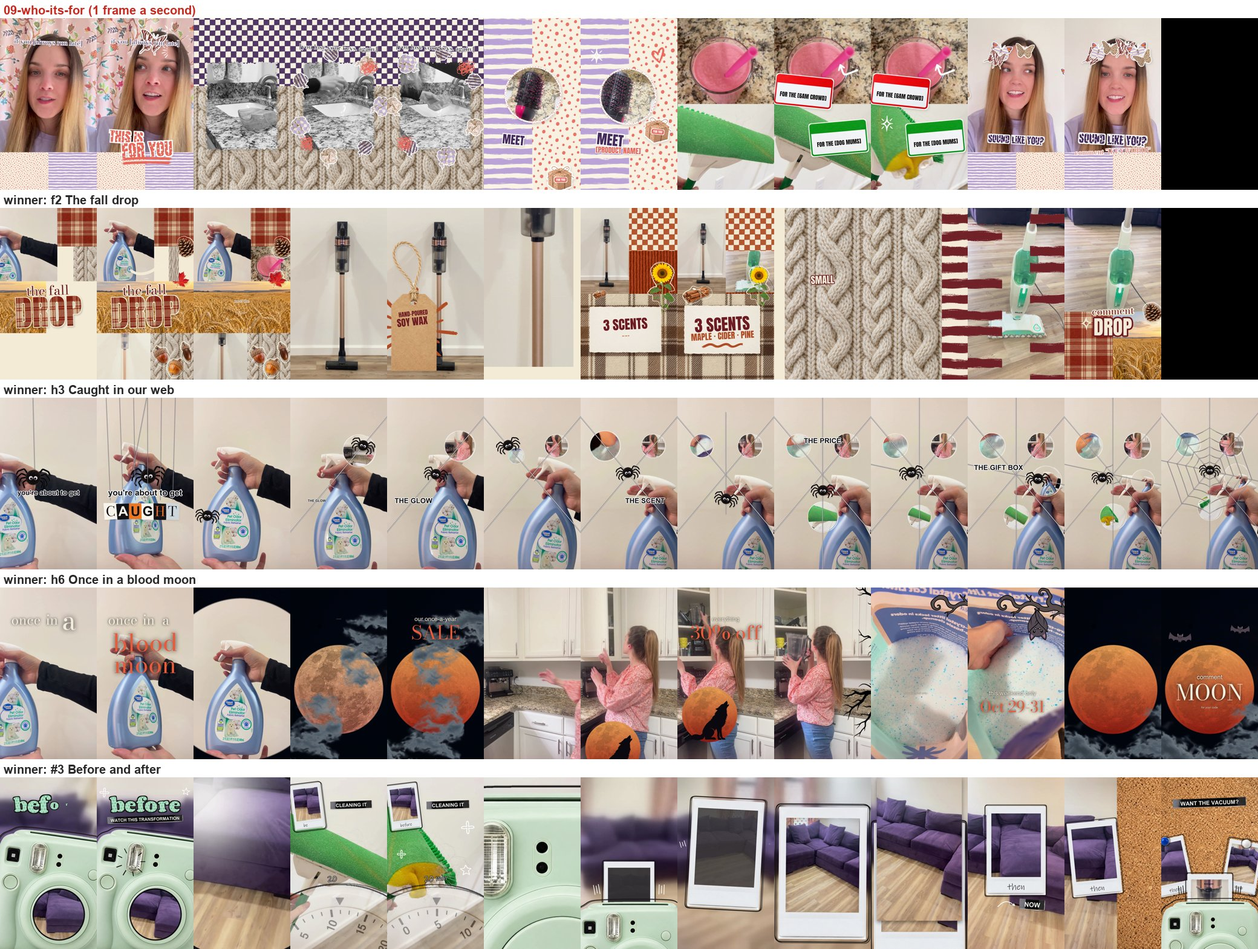
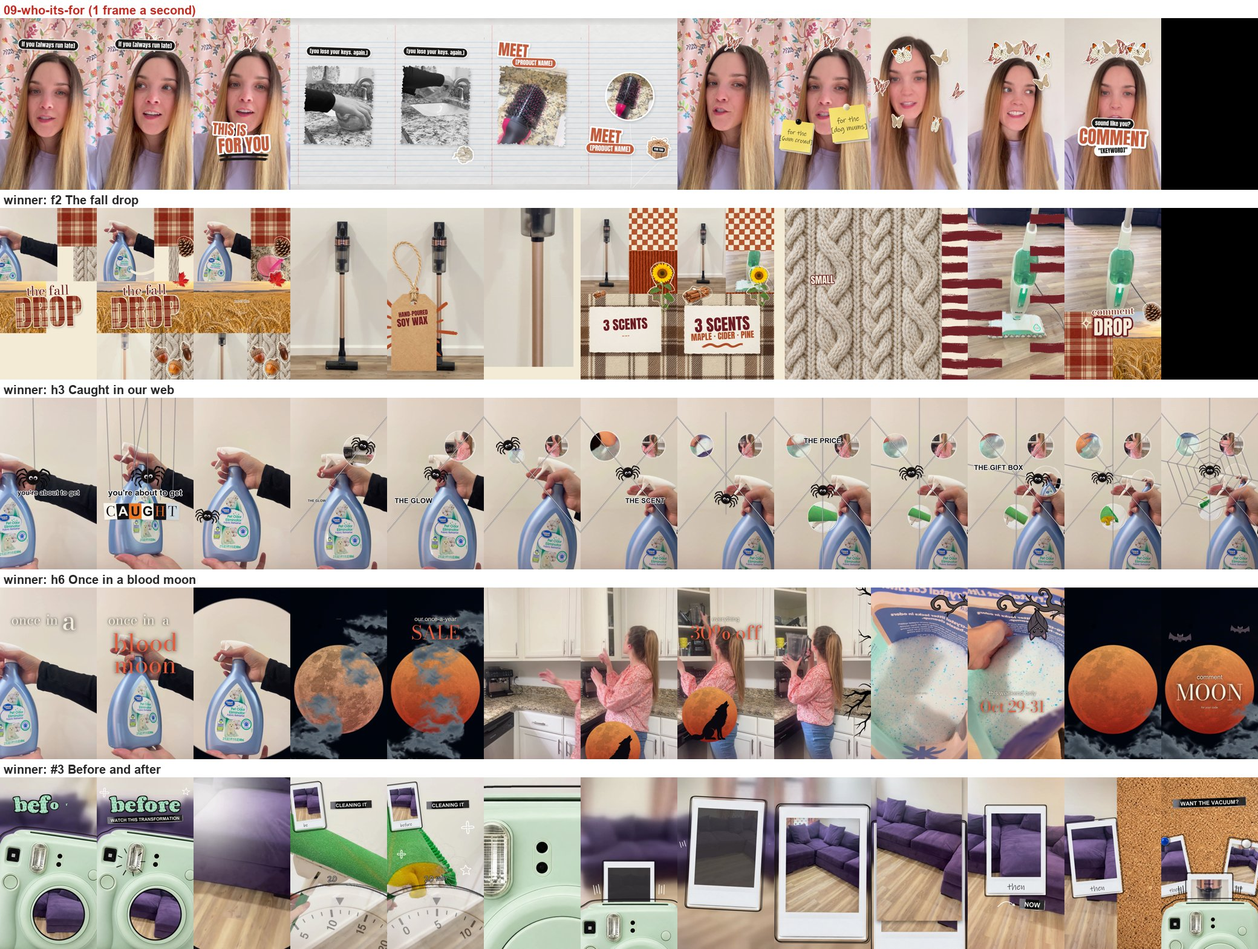
Reel Template Packs #09/#10/#12 round 2: her 17 notes + scene structure
Readable words (solid pills / thick-edged lettering, no pattern fills), a neutral colour
story with one buyer-changeable accent per template, no pattern repeated behind its
object, plain round-window rims, thicker balloon strings, three different openings,
doodles only with a job, sticky notes instead of name tags, the clip fitted into the
TV screen, doorbell button showing with the burst coming from it, THE / WAIT / IS OVER
one word per tissue sheet, 7-8 scenes each with a returning stage. play.py: pill,
big_text, sticky, tv_with, NEUTRAL palette.

Changed region(s): [[0.0, 0.0, 0.9375, 0.2185]]

diff --git a/automation/reel-template-pack/build/story4.py b/automation/reel-template-pack/build/story4.py
@@ -1,0 +1,292 @@
+"""#09, #10 and #12, round 2 after her 17 notes (2026-10-18) and the "Scene structure" rules (FRAMEWORK.md):
+- readable words: solid colour on a solid pill or with a thick white edge (play.pill / play.big_text); no
+  pattern-filled lettering, no thin serif over busy footage
+- a neutral colour story (cream, stone, ink, kraft) plus ONE accent per template that buyers change to their brand;
+  never the same pattern on an object and right behind it; plain white rims on the round clip windows
+- three different openings (talking head / a kraft stage / a diagonal split), not the fall layout
+- 7 to 8 scenes each (a new one every 1.5 to 2 s), two home bases (the buyer's video and one graphic stage that comes
+  back with a new setup), a designed change every time, one element carried across, interplay with the person
+- doodles only with a job (an arrow AT something, an underline under the key word, a burst FROM the bell)
+Stand-in footage (her July clips; #09's talking head is Mercedes).
+Usage: python build/story4.py 09 [seconds ...]  ->  NN-.../preview/motion-test.mp4  (or a test sheet)
+"""
+import math, sys
+from pathlib import Path
+from PIL import Image, ImageChops, ImageDraw, ImageFilter, ImageOps
+sys.path.insert(0, str(Path(__file__).resolve().parent))
+import collage as C
+import storyboard_b2 as S
+import play as P
+from collage_kit import doodle, doodle_on, raw
+from collage_motion import still, video, tiles
+from motion_b2 import Clip, put, pop, camera, render, circle_mask, ease, back_out, seg, lerp, lerp2, clamp, W, H, INK, WHITE, CREAM
+
+N = P.NEUTRAL; INKC, STONE, CRM, PAPER = N['ink'], N['stone'], N['cream'], N['paper']
+DIRS = {'09': '09-who-its-for', '10': '10-three-people-to-gift-it-to', '12': '12-your-order-just-arrived'}
+
+def bg(name, folder='images', crop=None):
+    im = raw(folder, name, crop) if crop else S.raw(folder, name); return ImageOps.fit(im, (W, H), Image.LANCZOS).convert('RGBA')
+
+def pattern_bg(kind, dark, light, scale=0.6):
+    m = P._pattern_mask(kind, (W, H), scale); im = Image.new('RGBA', (W, H), light + (255,)); lay = Image.new('RGBA', (W, H), dark + (0,)); lay.putalpha(m); im.alpha_composite(lay); return im
+
+def roundwin(clip_im, d, rim=WHITE):
+    """A clip in a round window with a plain rim (no repeated pattern on the rims: her note)."""
+    out = Image.new('RGBA', (d + 36, d + 36), (0, 0, 0, 0)); ring = Image.new('RGBA', out.size, rim + (255,))
+    ring.putalpha(circle_mask(out.size, (out.width / 2, out.height / 2), d / 2 + 16, 1)); out.alpha_composite(ring)
+    v = ImageOps.fit(clip_im, (d, d)); v.putalpha(circle_mask((d, d), (d / 2, d / 2), d / 2, 1)); out.alpha_composite(v, (18, 18))
+    return C.shadow(out, (8, 14), 14, 100)
+
+def card(clip_im, w, h, border=16, rot=0):
+    c = Image.new('RGBA', (w + 2 * border, h + 2 * border), WHITE + (255,)); c.alpha_composite(ImageOps.fit(clip_im, (w, h)), (border, border))
+    return C.shadow(c, (8, 14), 14, 110)
+
+def swipe(old, new, u, direction=1):
+    """Motion-blur swipe: the old scene slides out and the new one in, smeared sideways mid-move."""
+    if u <= 0: return old
+    if u >= 1: return new
+    dx = int(direction * ease(u) * W); out = Image.new('RGBA', (W, H))
+    out.alpha_composite(old, (-dx, 0)); out.alpha_composite(new, (direction * W - dx, 0))
+    k = int(1 + 24 * math.sin(math.pi * u))                       # horizontal smear, strongest mid-swipe
+    return out.resize((max(1, W // k), H), Image.BILINEAR).resize((W, H), Image.BILINEAR) if k > 2 else out
+
+def diagonal(old, new, u):
+    """Diagonal wipe from the right (Lisa's scene 1)."""
+    if u <= 0: return old
+    if u >= 1: return new
+    x = lerp(W + H * 0.4, -H * 0.4, ease(u)); m = Image.new('L', (W, H), 0); ImageDraw.Draw(m).polygon([(x, 0), (W + 2000, 0), (W + 2000, H), (x + H * 0.4, H)], fill=255)
+    out = old.copy(); out.paste(new, (0, 0), m); return out
+
+def pan(scene_tall, t, t0, t1, y0, y1):
+    """Prezi pan down a tall graphic stage."""
+    y = lerp(y0, y1, ease(seg(t, t0, t1))); return scene_tall.crop((0, int(y), W, int(y) + H))
+
+# ======================================================================================================================
+# 09 Who it's for. Accent: terracotta (buyers change it). Home bases: her talking head + a notebook-paper stage.
+#  1 0.0  her, a butterfly flutters in and lands on her head; "if you [always run late]" on a black pill
+#  2 1.6  "THIS IS FOR YOU" big over her (accent, white edge); swipe to the stage
+#  3 3.0  stage: the problem in B&W inside a torn window; "[you lose your keys. again.]" pill; one crumpled paper rolls in
+#  4 4.5  swap in place: the torn window becomes the product clip in colour; MEET [PRODUCT NAME]; burst on the swap
+#  5 5.9  pan down the paper: the product floats up on a string; arrow from MEET to it
+#  6 7.4  back to her: sticky notes pinned one at a time: for the [6am crowd] / for the [dog mums]
+#  7 9.4  the butterflies gather in a circle round her head (the first one is carried in from scene 1) into a crown
+#  8 10.5 CTA word sandwich: "sound like you?" / COMMENT / "[KEYWORD]"; underline under COMMENT
+# ======================================================================================================================
+TERRA = (196, 92, 62)
+
+def setup_09():
+    g = {'c': {'me': Clip('IMG_1469', 1.0, 6.0), 'me2': Clip('IMG_1470', 1.0, 6.0), 'problem': Clip('IMG_1430', 1.0), 'product': Clip('IMG_1381', 1.0)}}
+    g['paper'] = bg('Blank Ruled Notebook Paper.png', 'physical')
+    tall = Image.new('RGBA', (W, 2 * H)); tall.alpha_composite(g['paper'], (0, 0)); tall.alpha_composite(g['paper'], (0, H)); g['tall'] = tall
+    g['bf'] = [P.thing(P.BUTTERFLIES[i % 3], 220, ('stripes', 'dots', 'smalldots')[i % 3], (TERRA, INKC, STONE)[i % 3], scale=0.3, strength=0.75, seed=i, edge=6) for i in range(6)]
+    g['ball'] = P.thing('Crumpled cream paper ball-58.png', 220, 'stripes', STONE, scale=0.3, strength=0.7)
+    g['gift'] = P.thing('Kraft paper cube gift with twine-38.png', 260, 'dots', TERRA, scale=0.4, label=P.sticker('FOR YOU', 34, INKC))
+    g['habit'] = P.pill('if you [always run late]', 64, INKC, WHITE); g['this'] = P.big_text('THIS IS', 150, TERRA); g['foryou'] = P.big_text('FOR YOU', 190, TERRA)
+    g['problem'] = P.pill('[you lose your keys. again.]', 58, INKC, WHITE); g['meet'] = P.big_text('MEET', 170, TERRA); g['prod'] = P.pill('[PRODUCT NAME]', 66, TERRA, WHITE)
+    g['notes'] = [P.sticky('for the\n[6am crowd]', 420, seed=1, pin='pin-head-black'), P.sticky('for the\n[dog mums]', 420, seed=2, pin='pin-head-cream')]
+    g['sound'] = P.pill('sound like you?', 62, INKC, WHITE); g['comment'] = P.big_text('COMMENT', 200, TERRA); g['kw'] = P.pill('"[KEYWORD]"', 66, WHITE, INKC)
+    g['d_burst'] = doodle('burst', 1, 300, TERRA); g['d_arrow'] = doodle('arrow', 9, 230, INKC); g['d_under'] = doodle('under', 4, 560, INKC)
+    return g
+
+def frame_09(g, t):
+    c = g['c']; cx, cy, rx, ry = P.HEAD; top = (cx, cy - ry - 90)
+    if t < 3.0:                                                   # 1-2: her; the butterfly lands; THIS IS FOR YOU; swipe out
+        im = c['me'].at(t)
+        u = ease(seg(t, 0.2, 1.3)); path = (lerp(-150, top[0] + 30, u), lerp(1100, top[1] - 40, u) - 260 * math.sin(math.pi * u))
+        P.butterfly(im, g['bf'][0], t, path, -20 + 20 * u, flap=1 - 0.7 * seg(t, 1.3, 1.6))
+        pop(im, g['habit'], t, 0.1, (540, 300), -2, out=1.5)
+        pop(im, g['this'], t, 1.6, (400, 1250), -4); pop(im, g['foryou'], t, 1.75, (560, 1420), 3); doodle_on(im, t, 2.0, g['d_under'], (560, 1560), -2)
+        if t > 2.7: im = swipe(im, stage_09(g, t, 0), seg(t, 2.7, 3.0))
+        return im
+    if t < 5.9: return stage_09(g, t, 0)
+    if t < 7.4:                                                   # 5: pan down the paper; the product floats up on a string
+        im = g['paper'].copy()                                      # the balloon rises as the stage changes (no empty frame)
+        P.balloon(im, roundwin(c['product'].at(t - 5.9, (520, 520)), 520), t, (560, 860), (560, 1900), 0, rise=(5.9, 6.4, 2400))
+        P.balloon(im, g['gift'], t, (880, 1250), (580, 1900), 1.7, rise=(6.1, 6.6, 2400))
+        pop(im, g['meet'], t, 6.2, (280, 1320), -6); pop(im, g['prod'], t, 6.35, (330, 1460), -2)
+        doodle_on(im, t, 6.6, g['d_arrow'], (320, 1080), -60)
+        if t > 7.1: im = swipe(im, c['me'].at(t - 7.4 + 3.0), seg(t, 7.1, 7.4), -1)
+        return im
+    if t < 9.4:                                                   # 6: back to her; sticky notes pinned one at a time
+        im = c['me'].at(t - 7.4 + 3.0); P.butterfly(im, g['bf'][0], t, (top[0] + 30, top[1] - 40), 0, flap=0.3)   # carried on her head
+        pop(im, g['notes'][0], t, 7.6, (250, 1320), -8); pop(im, g['notes'][1], t, 8.3, (830, 1180), 7)
+        return im
+    im = c['me2'].at(t - 9.4)                                     # 7-8: butterflies gather in a circle into a crown; CTA
+    for i, (pt, bf) in enumerate(zip(P.crown_points(6, 170), g['bf'])):
+        a0 = i * math.pi / 3 + t * 2; orbit = (540 + 430 * math.cos(a0), 800 + 430 * math.sin(a0))
+        u = ease(seg(t, 9.6 + i * 0.08, 10.4 + i * 0.08)); P.butterfly(im, bf, t, lerp2(orbit, pt, u), (i - 2.5) * 10, flap=1 - 0.6 * u, phase=i)
+    pop(im, g['sound'], t, 10.5, (540, 1180), -2); pop(im, g['comment'], t, 10.65, (540, 1340), -3); pop(im, g['kw'], t, 10.9, (540, 1480), 2)
+    return im
+
+def stage_09(g, t, _):
+    """3-4: the notebook stage. The problem in B&W in a torn window, then swapped in place for the product in colour."""
+    c = g['c']; im = g['paper'].copy(); sw = ease(seg(t, 4.5, 4.8))
+    v = c['problem'].at(max(0, t - 3.0), (780, 900)); v = ImageOps.grayscale(v).convert('RGBA') if sw < 0.5 else c['product'].at(t - 4.5, (780, 900))
+    k = 1 - 0.15 * math.sin(math.pi * sw); v.putalpha(C.torn_mask((780, 900), 5, 18, 'tblr')); put(im, C.shadow(v, (10, 16), 14, 110), (540, 980), k, -2)
+    if t < 4.5:
+        pop(im, g['problem'], t, 3.1, (540, 380), -2); put(im, g['ball'], (lerp(-200, 850, ease(seg(t, 3.4, 4.0))), 1530), 1, t * 200)
+    else:
+        doodle_on(im, t, 4.55, g['d_burst'], (540, 980), 0, 5.2)
+        pop(im, g['meet'], t, 4.8, (330, 360), -5); pop(im, g['prod'], t, 4.95, (560, 500), -2)
+    return im
+
+# ======================================================================================================================
+# 10 Three people to gift it to. Accent: red (buyers change it). Neutrals: kraft, cream, ink, stone. Home bases: a
+# kraft-paper stage and the buyer's video.
+#  1 0.0  stage: a red-dotted gift with a ? sticker drops onto plain cream paper; "stuck on a" pill + GIFT? big
+#  2 1.6  pan down the kraft stage: the usual gifts (ink-striped tea set, stone-dotted clock, ink-dotted mug)
+#  3 2.6  each crossed out in turn (her X has a job)
+#  4 4.0  swap in place: the three gifts gather into one round window: the product; "works for ALL 3"
+#  5 5.4  the product clip full frame
+#  6 6.8  people float up one at a time as balloons (plain white rims, thicker strings), a name pill on each
+#  7 10.0 CTA (she loved it): the balloons rise, the gift with FOR YOU, COMMENT, keyword, gift-wrap pill; plain
+#         cream + stone stripes behind (never dots behind the dotted box)
+# ======================================================================================================================
+RED = (200, 50, 44)
+
+def setup_10():
+    g = {'c': {'gift': Clip('IMG_1454', 1.0), 'prod': Clip('IMG_1456', 1.0), 'p1': Clip('IMG_1381', 1.0), 'p2': Clip('IMG_1391', 1.0), 'p3': Clip('IMG_1417', 0.5)}}
+    g['kraft'] = bg('Partly unrolled kraft paper roll-14.png', crop=(0.5, 0.56, 0.74, 0.7)); g['cream'] = Image.new('RGBA', (W, H), CRM + (255,))
+    st = pattern_bg('stripes', STONE, CRM, 0.5); half = Image.new('RGBA', (W, H)); half.alpha_composite(g['cream']); half.alpha_composite(st.crop((540, 0, W, H)), (540, 0)); g['cta_bg'] = half
+    tall = Image.new('RGBA', (W, 2 * H)); tall.alpha_composite(g['cream'], (0, 0)); tall.alpha_composite(g['kraft'], (0, H)); g['tall'] = tall
+    g['box'] = P.thing('Kraft paper cube gift with twine-38.png', 400, 'dots', RED, scale=0.4, label=P.sticker('?', 70, INKC, WHITE, 'circle'))
+    g['box2'] = P.thing('Kraft paper cube gift with twine-38.png', 420, 'dots', RED, scale=0.4, label=P.sticker('FOR YOU', 40, INKC))
+    g['usual'] = [P.thing('Vintage Rose Porcelain Tea Set.png', 440, 'stripes', INKC, scale=0.35, strength=0.6),
+                  P.thing('Classic Cream Twin-Bell Alarm Clock-185.png', 320, 'dots', STONE, scale=0.45, strength=0.8),
+                  P.thing('Warm white ceramic coffee mug-140.png', 320, 'smalldots', INKC, scale=0.4, strength=0.8)]
+    g['x'] = [doodle('tick', 3 + i, 300, RED) for i in range(3)]
+    g['stuck'] = P.pill('stuck on a', 70, INKC, WHITE); g['giftw'] = P.big_text('GIFT?', 260, RED)
+    g['imp'] = P.big_text('THE USUAL?', 140, INKC); g['works'] = P.pill('this one works for', 62, INKC, WHITE); g['all3'] = P.big_text('ALL 3', 220, RED)
+    g['names'] = [P.pill(n, 52, WHITE, INKC) for n in ('[YOUR FRIEND]', '[YOUR MUM]', '[YOUR DAD]')]
+    g['comment'] = P.big_text('COMMENT', 170, RED); g['kw'] = P.pill('"[KEYWORD]"', 66, INKC, WHITE); g['wrap'] = P.pill('[gift wrap available]', 52, WHITE, INKC)
+    g['d_under'] = doodle('under', 4, 560, INKC); g['d_arrow'] = doodle('arrow', 9, 220, INKC)
+    return g
+
+def frame_10(g, t):
+    c = g['c']
+    if t < 4.0:                                                   # 1-3: the gift drops; pan down to the usual gifts, crossed out
+        if t < 1.6:
+            im = g['cream'].copy(); put(im, card(c['gift'].at(t, (640, 760)), 640, 760), (470, 1100), 1, -4)   # the buyer's gift clip, as a photo
+            b = back_out(seg(t, 0.2, 0.6), 2.0); put(im, g['box'], (800, lerp(-400, 1420, b)), 1, 4 * math.sin(t * 5))   # the ? gift lands on its corner
+            pop(im, g['stuck'], t, 0.1, (420, 300), -3); pop(im, g['giftw'], t, 0.35, (540, 480), -3); doodle_on(im, t, 0.8, g['d_under'], (540, 640), -2)
+            return im
+        im = pan(g['tall'], t, 1.6, 2.4, 0, H).copy()
+        if t >= 2.2:
+            for i, (obj, xy) in enumerate(zip(g['usual'], ((300, 600), (800, 1000), (330, 1450)))):
+                pop(im, obj, t, 2.2 + i * 0.1, xy, (-6, 5, -4)[i]); doodle_on(im, t, 2.7 + i * 0.4, g['x'][i], xy, 0)
+            pop(im, g['imp'], t, 2.4, (600, 320), -2)
+        return im
+    if t < 5.4:                                                   # 4: the three gather into one round window: the product
+        im = g['kraft'].copy(); u = ease(seg(t, 4.0, 4.5))
+        for i, (obj, xy) in enumerate(zip(g['usual'], ((300, 600), (800, 1000), (330, 1450)))):
+            if u < 1: put(im, obj, lerp2(xy, (540, 900), u), 1 - u, (-6, 5, -4)[i] + 200 * u)
+        k = back_out(seg(t, 4.4, 4.75), 1.6)
+        if k > 0: put(im, roundwin(c['prod'].at(t - 4.4, (620, 620)), 620), (540, 900), k)
+        pop(im, g['works'], t, 4.7, (540, 1330), -2); pop(im, g['all3'], t, 4.85, (540, 1480), 3); doodle_on(im, t, 5.0, g['d_arrow'], (860, 1300), -110)
+        return im
+    if t < 6.8:                                                   # 5: the product full frame (the window grew)
+        im = c['prod'].at(t - 4.4); return im
+    im = g['cta_bg'].copy()                                       # 6-7: people float up as balloons; CTA
+    up = ease(seg(t, 10.0, 10.5)); anchor = lerp2((540, 2000), (540, 1500), ease(seg(t, 10.0, 10.5)))
+    for i, (clip, xy0, xy1) in enumerate(((c['p1'], (300, 520), (200, 380)), (c['p2'], (780, 760), (540, 330)), (c['p3'], (330, 1080), (880, 380)))):
+        xy = lerp2(xy0, xy1, up); d = int(380 - 80 * up)
+        balloon(im, roundwin(clip.at(t - 6.8, (d, d)), d), t, xy, (anchor[0] + (i - 1) * 40, anchor[1]), i * 1.7, rise=(6.9 + i * 1.0, 7.5 + i * 1.0, 2400))
+        if t < 10.0: put(im, g['names'][i], (xy[0], xy[1] + 250), back_out(seg(t, 7.3 + i, 7.5 + i)), (-4, 3, -3)[i])
+    if t >= 10.0:
+        pop(im, g['box2'], t, 10.0, (540, 1500), 0, wiggle=2)
+        pop(im, g['comment'], t, 10.3, (540, 900), -3); pop(im, g['kw'], t, 10.55, (540, 1060), 2); pop(im, g['wrap'], t, 10.75, (540, 1170), -2)
+    return im
+
+def balloon(img, item, t, c, anchor, phase=0.0, rise=None):
+    """P.balloon with a thicker, darker string (her note: make the lines thicker)."""
+    x, y = c
+    if rise: y = lerp(rise[2], c[1], ease(seg(t, rise[0], rise[1])))
+    bx, by = x + 14 * math.sin(t * 1.6 + phase), y + 18 * math.sin(t * 2.1 + phase)
+    bottom = (bx, by + item.height / 2 - 20); mid = ((bottom[0] + anchor[0]) / 2 + 30 * math.sin(t * 1.3 + phase), (bottom[1] + anchor[1]) / 2)
+    pts = [(lerp(lerp(bottom[0], mid[0], u), lerp(mid[0], anchor[0], u), u), lerp(lerp(bottom[1], mid[1], u), lerp(mid[1], anchor[1], u), u)) for u in [i / 16 for i in range(17)]]
+    ImageDraw.Draw(img).line(pts, fill=INKC + (255,), width=9)
+    put(img, item, (bx, by), 1, 6 * math.sin(t * 1.4 + phase))
+
+# ======================================================================================================================
+# 12 Your order just arrived. Accent: cobalt (buyers change it). Neutrals: concrete, cream, kraft, ink. Home bases:
+# the buyer's video and a concrete stage.
+#  1 0.0  diagonal split: the door clip above the line; on the concrete below, the real doorbell (button showing),
+#         a burst coming FROM it, a DING! pill beside it; "POV: your [product] just arrived" + IT'S HERE
+#  2 1.8  diagonal wipe to the stage: the tracking clip fitted INTO the TV screen; "[out for delivery]" pill
+#  3 3.3  swap in place: the TV becomes the mailbox, flag up: [delivered!]
+#  4 4.5  three sheets of tissue (cream, stone, cobalt) cover the unboxing clip, ONE word each: THE / WAIT / IS OVER;
+#         each peels off on its word
+#  5 7.0  the unboxing, full frame; an arrow at the product
+#  6 8.4  in use, full frame; a starred kraft tag swings in with the packaging detail written ON it
+#  7 9.9  CTA: the clip on the front of a kraft mailer on concrete; the doorbell carried back in; GET YOURS + keyword
+# ======================================================================================================================
+COB = (40, 80, 190)
+
+def setup_12():
+    g = {'c': {'door': Clip('IMG_1454', 1.0), 'track': Clip('IMG_1385', 1.0), 'unbox': Clip('IMG_1456', 1.0), 'use': Clip('IMG_1381', 1.0), 'cta': Clip('IMG_1454', 3.0)}}
+    g['concrete'] = bg('Light gray concrete mineral texture-4.png'); tissue = ImageOps.grayscale(S.raw('images', 'Blush Pink Tissue Paper Texture-9.png'))
+    g['tissues'] = [ImageOps.fit(ImageOps.colorize(ImageOps.autocontrast(tissue), tuple(int(v * 0.8) for v in col), col), (W, H)).convert('RGBA') for col in (CRM, STONE, (150, 172, 222))]
+    g['bell'] = P.die_cut(P.raw_cut('Vintage brass doorbell with ivory button-43.png', 250), 8)       # untouched: the button must show
+    g['ding'] = P.pill('DING!', 56, COB, WHITE); g['mailbox'] = P.thing('Vintage Mailbox with Raised Red Flag-20.png', 760, 'stripes', STONE, scale=0.5, strength=0.7)
+    g['tag'] = P.thing('Blank kraft hang tag with twine-116.png', 340, None, None, stars=2)
+    tg = g['tag'].copy(); ImageDraw.Draw(tg).multiline_text((tg.width / 2, tg.height * 0.66), '[every order\ncomes gift-\nwrapped]', font=S.F(P.ANTON, 40), fill=INKC, anchor='mm', align='center'); g['tag_w'] = tg
+    g['mailer'] = P.raw_cut('Sealed kraft padded mailer-39.png', 900)
+    g['pov'] = P.pill('POV: your [product] just arrived', 54, INKC, WHITE); g['here'] = P.big_text("IT'S HERE", 200, COB)
+    g['ofd'] = P.pill('[out for delivery...]', 56, INKC, WHITE); g['delivered'] = P.pill('[delivered!]', 70, COB, WHITE); g['words'] = [P.big_text(w, 260, INKC if i < 2 else WHITE, WHITE if i < 2 else INKC) for i, w in enumerate(('THE', 'WAIT', 'IS OVER'))]
+    g['get'] = P.big_text('GET YOURS', 170, COB); g['kw'] = P.pill('comment "[KEYWORD]"', 60, INKC, WHITE)
+    g['d_burst'] = doodle('burst', 1, 330, COB); g['d_arrow'] = doodle('arrow', 9, 240, WHITE); g['d_under'] = doodle('under', 4, 600, INKC)
+    return g
+
+def frame_12(g, t):
+    c = g['c']
+    if t < 2.1:                                                   # 1: diagonal split; the doorbell rings
+        im = g['concrete'].copy(); v = c['door'].at(t); m = Image.new('L', (W, H), 0); ImageDraw.Draw(m).polygon([(0, 0), (W, 0), (W, 1050), (0, 1500)], fill=255); im.paste(v, (0, 0), m)
+        ImageDraw.Draw(im).line([(0, 1500), (W, 1050)], fill=WHITE + (255,), width=12)
+        if t > 0.5: doodle_on(im, t, 0.5, g['d_burst'], (820, 1560), 0, 1.4)
+        press = 1 - 0.1 * math.sin(math.pi * seg(t, 0.5, 0.7)); put(im, g['bell'], (820, 1560), back_out(seg(t, 0.1, 0.4)) * press)
+        pop(im, g['ding'], t, 0.6, (500, 1660), -6, out=1.6)
+        pop(im, g['pov'], t, 0.2, (540, 300), -2); pop(im, g['here'], t, 0.5, (540, 470), -3)
+        if t > 1.8: im = diagonal(im, stage_12(g, t), seg(t, 1.8, 2.1))
+        return im
+    if t < 4.5: return stage_12(g, t)
+    if t < 7.0:                                                   # 4: THE / WAIT / IS OVER on three tissue sheets, peeling off
+        im = c['unbox'].at(t - 4.5)
+        for i in (2, 1, 0):
+            t0 = 5.0 + i * 0.65; u = ease(seg(t, t0, t0 + 0.32))          # each word holds before its sheet peels
+            if u >= 1: continue
+            sh = g['tissues'][i].copy(); put(sh, g['words'][i], (540, 960), 1, (-3, 2, -2)[i])
+            if u <= 0: im.alpha_composite(sh)
+            else: put(im, C.shadow(sh, (16, 24), 18, 120), (540 + (1 if i % 2 == 0 else -1) * 1100 * u, 960 + 1400 * u * u), 1, (1 if i % 2 == 0 else -1) * 25 * u)
+        return im
+    if t < 8.4:                                                   # 5: the unboxing; an arrow at the product
+        im = c['unbox'].at(t - 4.5); doodle_on(im, t, 7.2, g['d_arrow'], (760, 820), 200); return im
+    if t < 9.9:                                                   # 6: in use; the tag swings in with the detail on it
+        im = c['use'].at(t - 8.4); sw = 14 * math.sin(t * 3) * (1 - seg(t, 8.7, 9.7)); pop(im, g['tag_w'], t, 8.6, (790, 1180), sw); return im
+    im = g['concrete'].copy()                                     # 7: CTA on the mailer; the doorbell carried back in
+    m = g['mailer'].copy(); v = c['cta'].at(t - 9.9, (int(m.width * 0.7), int(m.height * 0.6))); m.alpha_composite(v, (int(m.width * 0.15), int(m.height * 0.22)))
+    pop(im, P.die_cut(m, 10), t, 9.9, (540, 1050), -3); pop(im, g['bell'], t, 10.1, (900, 1560), 6)
+    pop(im, g['get'], t, 10.2, (540, 330), -3); doodle_on(im, t, 10.5, g['d_under'], (540, 450), -2); pop(im, g['kw'], t, 10.5, (540, 560), 2)
+    return im
+
+def stage_12(g, t):
+    """2-3: the concrete stage: the tracking clip in the TV, then swapped in place for the mailbox."""
+    c = g['c']; im = g['concrete'].copy(); sw = seg(t, 3.3, 3.6)
+    if sw < 0.5: put(im, P.tv_with(c['track'].at(max(0, t - 1.8)), 860), (540, 960), 1 - sw * 0.6, -2)
+    else: put(im, g['mailbox'], (540, 1000), back_out(seg(t, 3.45, 3.75), 1.8), 2)
+    if t < 3.3: pop(im, g['ofd'], t, 2.2, (540, 1500), -2)
+    else: pop(im, g['delivered'], t, 3.8, (540, 1450), -3)
+    return im
+
+SETUP = {'09': setup_09, '10': setup_10, '12': setup_12}; FRAME = {'09': frame_09, '10': frame_10, '12': frame_12}; SECS = {'09': 12.0, '10': 12.0, '12': 12.0}
+
+def main():
+    tid = sys.argv[1]; g = SETUP[tid](); fr = lambda t: FRAME[tid](g, t); out = S.E.PACK / DIRS[tid] / 'preview'
+    if len(sys.argv) > 2:
+        ims = [fr(float(x)).convert('RGB') for x in sys.argv[2:]]; sheet = Image.new('RGB', (len(ims) * 360, 640), 'white')
+        for i, im in enumerate(ims): sheet.paste(im.resize((360, 640)), (i * 360, 0))
+        out.mkdir(parents=True, exist_ok=True); sheet.save(out / '_test.jpg', quality=85); print('test', out / '_test.jpg')
+    else:
+        render(tid, fr, SECS[tid], out)
+
+if __name__ == '__main__':
+    main()

diff --git a/automation/reel-template-pack/build/play.py b/automation/reel-template-pack/build/play.py
@@ -113,3 +113,44 @@ def crown_points(n, spread=150):
     cx, cy, rx, ry = HEAD; top = cy - ry
     return [(cx + rx * 1.05 * math.cos(math.radians(a)), top - 70 + ry * 0.28 * (1 - math.sin(math.radians(-a)))) for a in
             [lerp(-90 - spread / 2, -90 + spread / 2, i / (n - 1)) for i in range(n)]]
+
+# ---- after her notes on #09/#10/#12 (2026-10-18): readable words, a neutral colour story buyers can change -------------
+# Words are never pattern-filled and never thin over busy footage: solid colour on a solid pill or real paper.
+# Each template has neutrals + ONE accent (the colour buyers change to their brand); patterns use the neutrals or the
+# accent, never the same pattern on an object and right behind it.
+NEUTRAL = {'cream': (246, 241, 232), 'stone': (196, 188, 176), 'ink': (28, 27, 26), 'paper': (252, 250, 245)}
+
+def pill(text, px, bg, fg, font=None, pad=0.55, rot=0, outline=WHITE):
+    """Words on a solid pill (her ManyChat note: an embellished shape behind the words) with a white die-cut edge."""
+    f = S.F(font or ANTON, px); l, t, r, b = f.getbbox(text); w, h = int(r - l + px * pad * 2), int(b - t + px * pad * 1.2)
+    im = Image.new('RGBA', (w, h), (0, 0, 0, 0)); d = ImageDraw.Draw(im); d.rounded_rectangle((0, 0, w - 1, h - 1), h // 2, fill=bg + (255,))
+    d.text((w / 2, h / 2), text, font=f, fill=fg, anchor='mm')
+    out = die_cut(im, 8, True) if outline else C.shadow(im, (6, 10), 10, 90)
+    return out.rotate(rot, expand=True, resample=Image.BICUBIC) if rot else out
+
+def big_text(text, px, color, edge=WHITE, edge_w=None, font=None):
+    """Big solid lettering with a thick contrasting edge and a soft shadow: always readable."""
+    f = S.F(font or ANTON, px); ew = edge_w or max(8, px // 9); l, t, r, b = f.getbbox(text)
+    im = Image.new('RGBA', (r - l + 4 * ew + 20, b - t + 4 * ew + 20), (0, 0, 0, 0))
+    ImageDraw.Draw(im).text((im.width / 2, im.height / 2), text, font=f, fill=color, anchor='mm', stroke_width=ew, stroke_fill=edge)
+    return C.shadow(im, (5, 10), 10, 110)
+
+PIN = Path(__file__).resolve().parent.parent / 'assets' / 'props'
+def sticky(text, w=380, tint=None, px=None, seed=1, pin='pin-head-black'):
+    """A real yellow sticky note (tinted to the template's accent if asked) with the words in marker, pinned."""
+    n = S.fitw(S.cut('physical', 'Blank Yellow Sticky Note on White.png', tol=10), w)
+    if tint:
+        g = ImageOps.grayscale(n.convert('RGB')); c = ImageOps.colorize(ImageOps.autocontrast(g), tuple(int(v * 0.55) for v in tint), tint).convert('RGBA'); c.putalpha(n.split()[3]); n = c
+    d = ImageDraw.Draw(n); px = px or int(w * 0.17); f = S.F(S.HAND, px); lines = text.split('\n'); lh = px * 1.15
+    for k, l in enumerate(lines): d.text((n.width / 2, n.height * 0.52 + (k - (len(lines) - 1) / 2) * lh), l, font=f, fill=NEUTRAL['ink'], anchor='mm')
+    p = S.fitw(Image.open(PIN / f'{pin}.png').convert('RGBA'), int(w * 0.16)); n.alpha_composite(p, (int(n.width / 2 - p.width / 2), int(w * 0.03)))
+    return C.shadow(n, (8, 14), 12, 100)
+
+TV_SCREEN = (104, 432, 903, 993)        # the walnut TV cut-out's screen (measured), at its full cut-out size
+def tv_with(clip_im, w):
+    """The real walnut TV with the clip fitted INTO its screen (rounded like the glass)."""
+    tv = Image.open(HQ / 'Vintage Walnut Rabbit-Ear Television.png').convert('RGBA'); k = w / tv.width
+    x0, y0, x1, y1 = [int(v * k) for v in TV_SCREEN]; tv = S.fitw(tv, w); ins = int(14 * k * 2)
+    sw, shh = x1 - x0 - 2 * ins, y1 - y0 - 2 * ins; v = ImageOps.fit(clip_im, (sw, shh)).convert('RGBA')
+    m = Image.new('L', (sw, shh), 0); ImageDraw.Draw(m).rounded_rectangle((0, 0, sw - 1, shh - 1), int(70 * k), fill=255); v.putalpha(m)
+    tv.alpha_composite(v, (x0 + ins, y0 + ins)); return die_cut(tv, 8)
